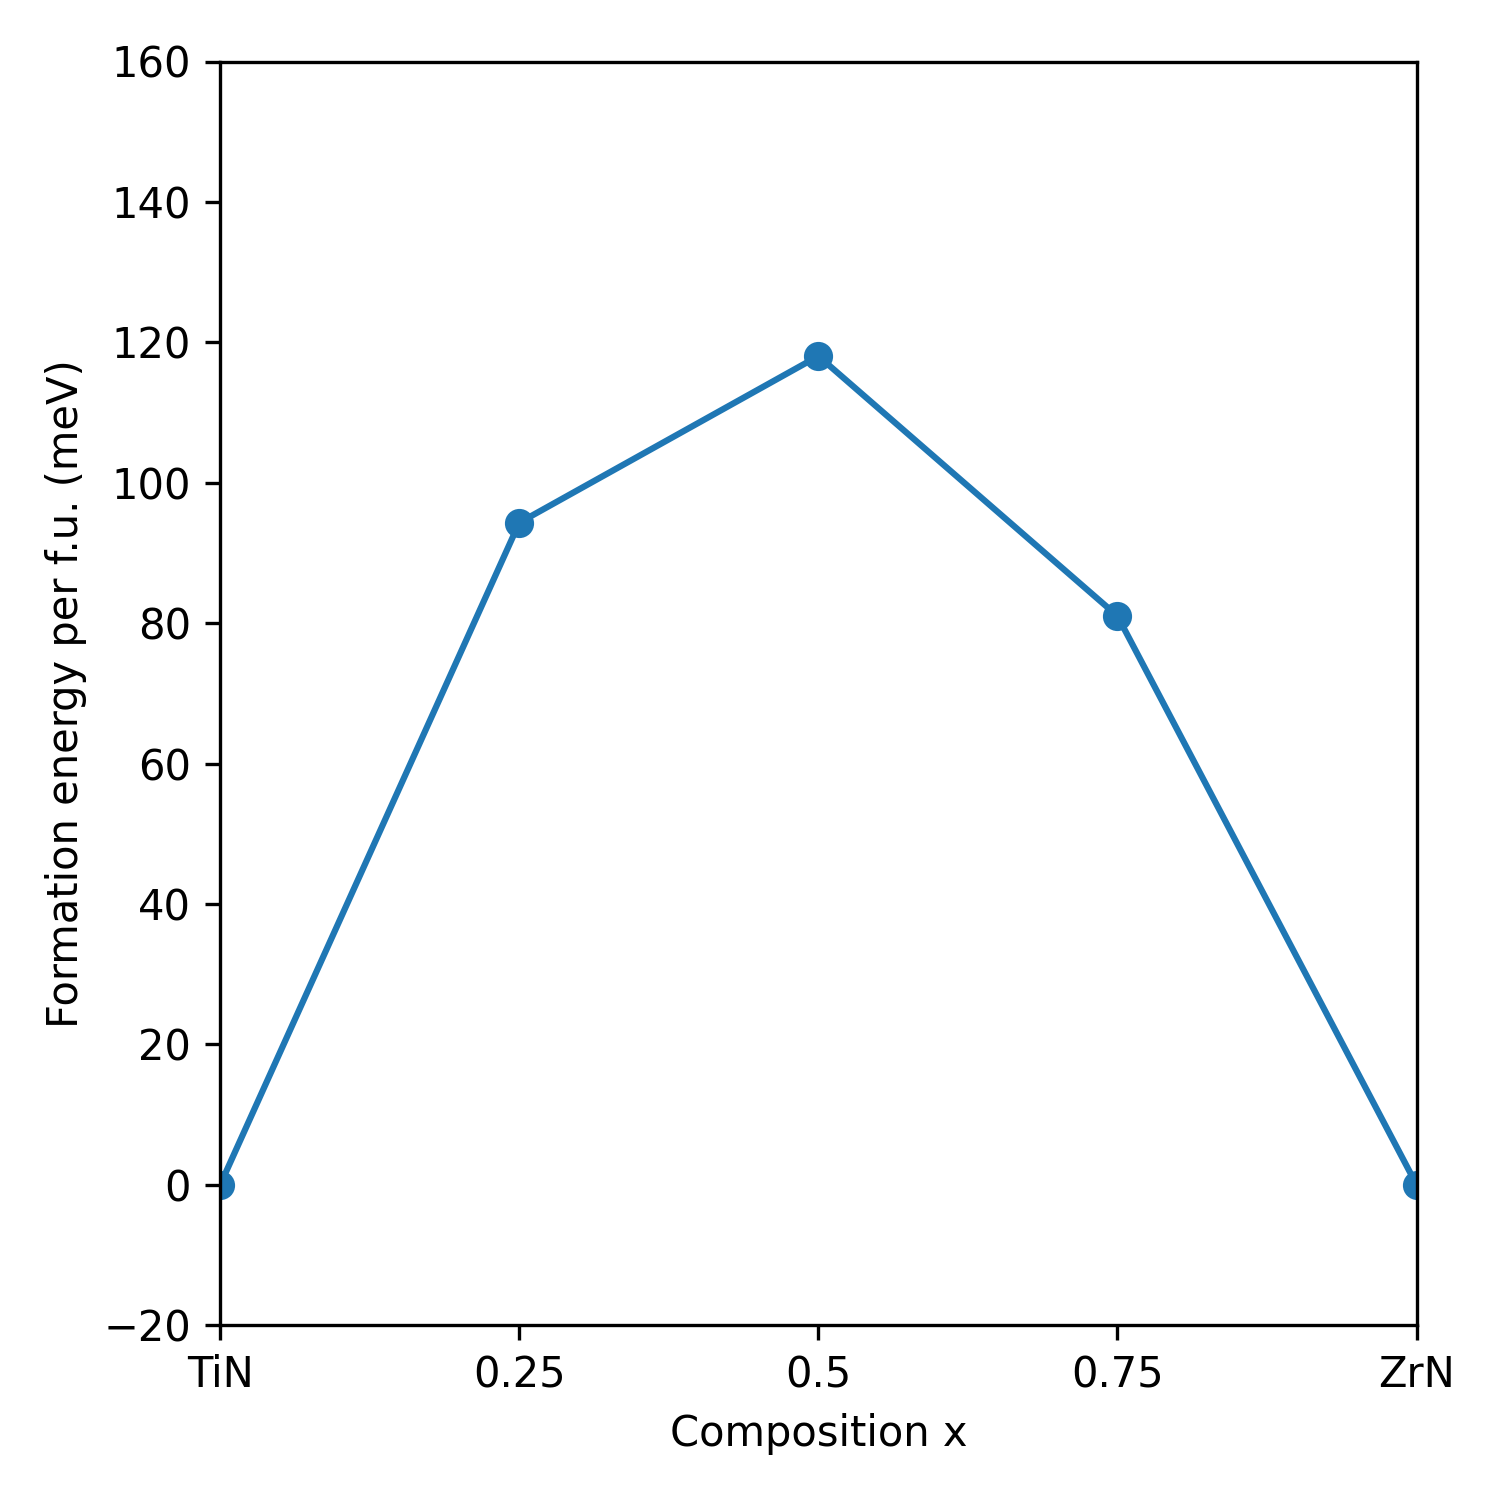
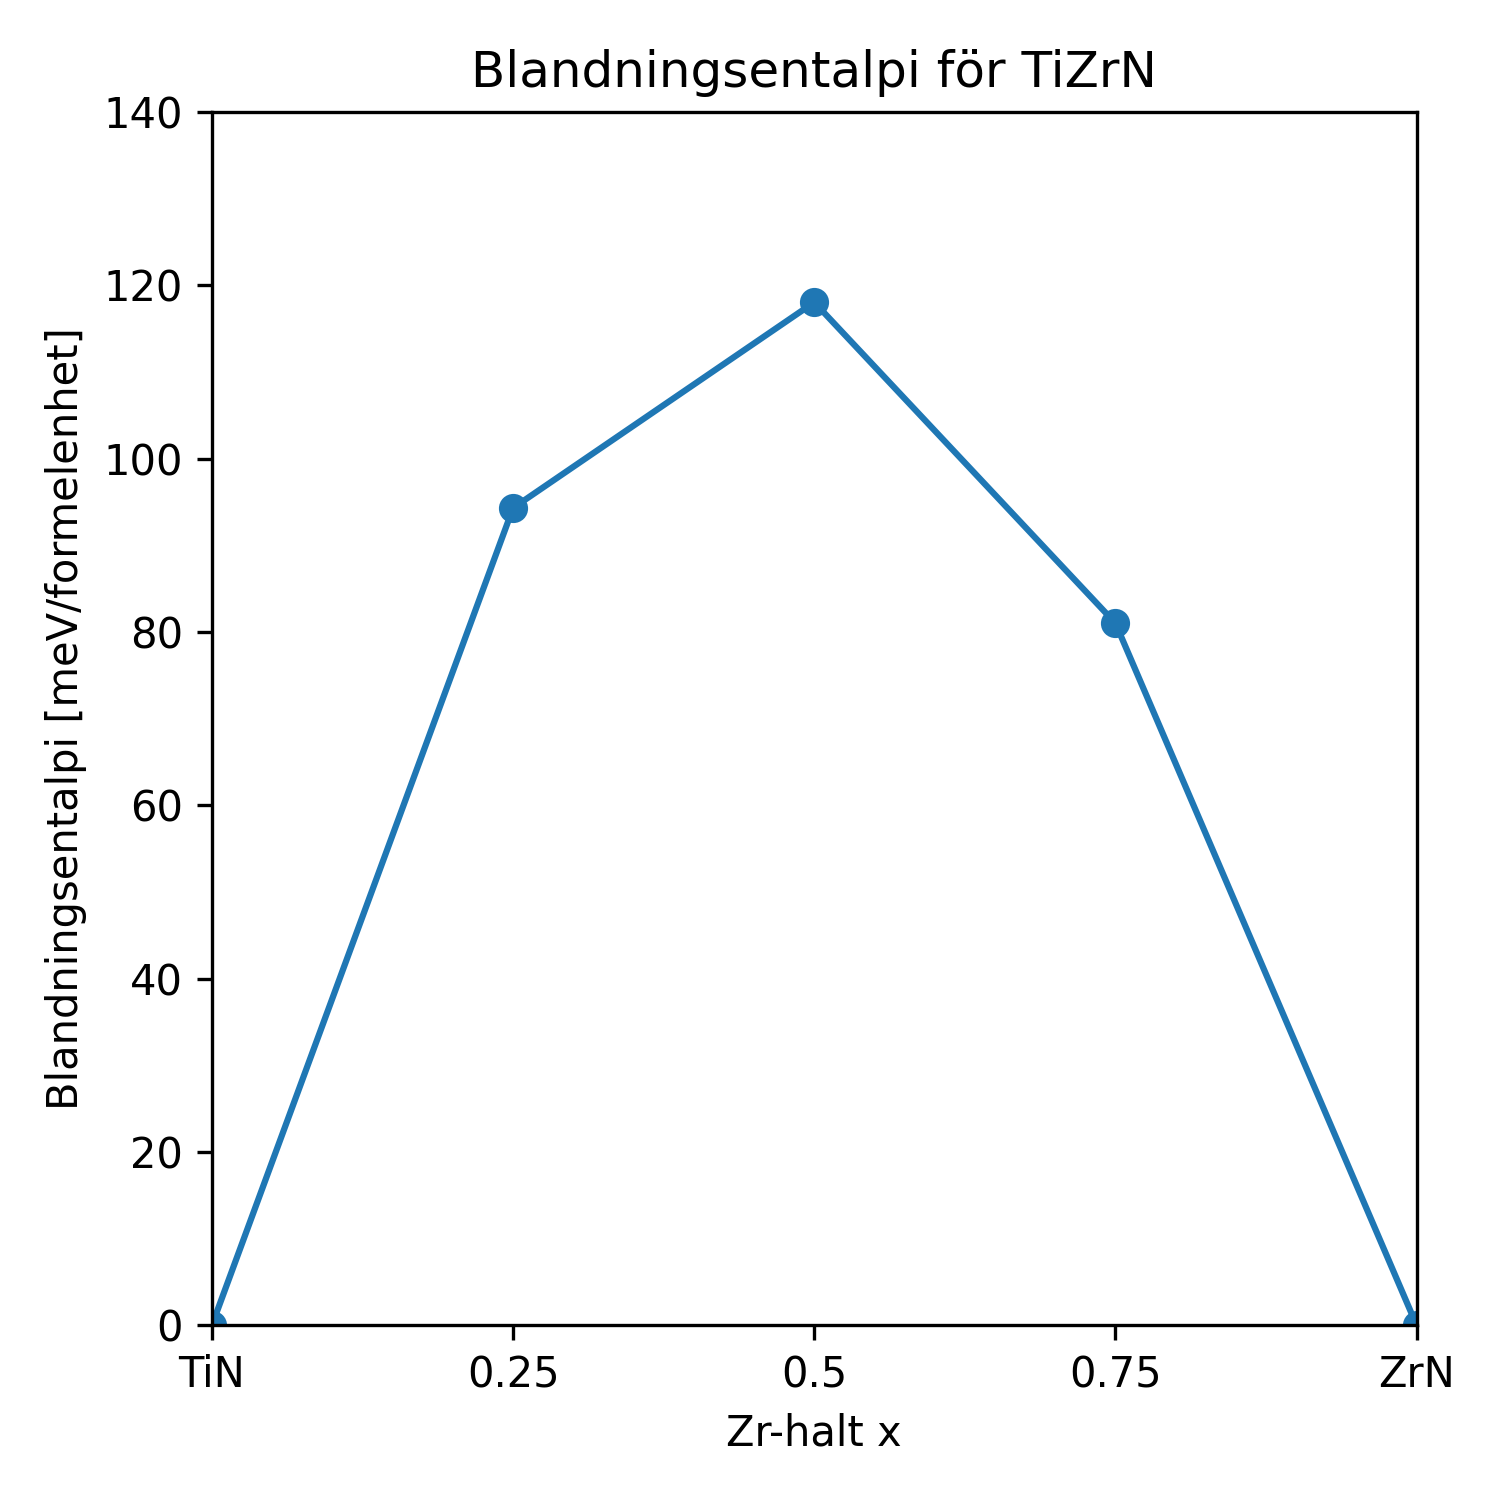
subsystem_dft: Update plots and bandstructure labels

diff --git a/src/berakningsfysik/subsystem_dft/bandstructure/analyze_and_plot_bands.py b/src/berakningsfysik/subsystem_dft/bandstructure/analyze_and_plot_bands.py
@@ -12,11 +12,15 @@ def plot_bands(input_file, output_file, title, energy_zero):
     k = data[:points_per_band, 0]
     energies = data[:, 1].reshape(number_of_bands, points_per_band)
 
+    labels = ["Γ", "X", "W", "K", "Γ", "L", "U", "W", "L", "K"]
+    positions = [k[i] for i in [0, 20, 40, 60, 80, 100, 120, 140, 160, 180]]
+
     for band in energies:
         plt.plot(k, band - energy_zero, linewidth=1, color="black")
 
     plt.axhline(0, linestyle="--", linewidth=0.8)
-    plt.xlabel("k-path")
+    plt.xticks(positions, labels)
+    plt.xlabel("Väg i Brillouin-zonen")
     plt.ylabel("Energi relativt referensnivå (eV)")
     plt.title(title)
     plt.tight_layout()
@@ -27,14 +31,14 @@ def plot_bands(input_file, output_file, title, energy_zero):
 plot_bands(
     input_file="TiN_bands.dat.gnu",
     output_file="TiN_bandstructure.png",
-    title="Kubisk TiN band struktur",
+    title="Kubisk TiN bandstruktur",
     energy_zero=17.0299,
 )
 
 plot_bands(
     input_file="AlN_bands.dat.gnu",
     output_file="AlN_bandstructure.png",
-    title="Kubisk AlN band struktur",
+    title="Kubisk AlN bandstruktur",
     energy_zero=13.2165,
 )
 

diff --git a/src/berakningsfysik/subsystem_dft/results/final_hmix_sqs/scripts/plot_final_fixed_sqs_hmix.py b/src/berakningsfysik/subsystem_dft/results/final_hmix_sqs/scripts/plot_final_fixed_sqs_hmix.py
@@ -9,13 +9,16 @@ bild_fil = mapp / "final_fixed_sqs_hmix_plot.png"
 
 data = pd.read_csv(csv_fil)
 
+x = [0.0] + data["x"].tolist() + [1.0]
+hmix = [0.0] + data["hmix_ev_per_atom"].tolist() + [0.0]
+
 plt.figure()
-plt.plot(data["x"], data["hmix_ev_per_atom"], marker="o")
+plt.plot(x, hmix, marker="o")
 plt.title("Blandningsentalpi för TiAlN")
 plt.xlabel("Al-halt x")
 plt.ylabel("Delta Hmix [eV/atom]")
 plt.xlim(0.0, 1.0)
-plt.ylim(-0.10, 0.25)
+plt.ylim(0.0, 0.15)
 plt.grid(True)
 plt.tight_layout()
 plt.savefig(bild_fil, dpi=300)

diff --git a/src/berakningsfysik/subsystem_dft/results/tizrn_hmix/plot_TiZrN_hmix.py b/src/berakningsfysik/subsystem_dft/results/tizrn_hmix/plot_TiZrN_hmix.py
@@ -8,10 +8,11 @@ h = [0] + df["H_mix_meV_per_formula_unit"].tolist() + [0]
 
 plt.figure(figsize=(5, 5))
 plt.plot(x, h, marker="o")
-plt.xlabel("Composition x")
-plt.ylabel("Formation energy per f.u. (meV)")
+plt.title("Blandningsentalpi för TiZrN")
+plt.xlabel("Zr-halt x")
+plt.ylabel("Blandningsentalpi [meV/formelenhet]")
 plt.xlim(0, 1)
-plt.ylim(-20, 160)
+plt.ylim(0, 140)
 plt.xticks([0, 0.25, 0.5, 0.75, 1], ["TiN", "0.25", "0.5", "0.75", "ZrN"])
 plt.tight_layout()
 plt.savefig("TiZrN_hmix_mev_fu.png", dpi=300)